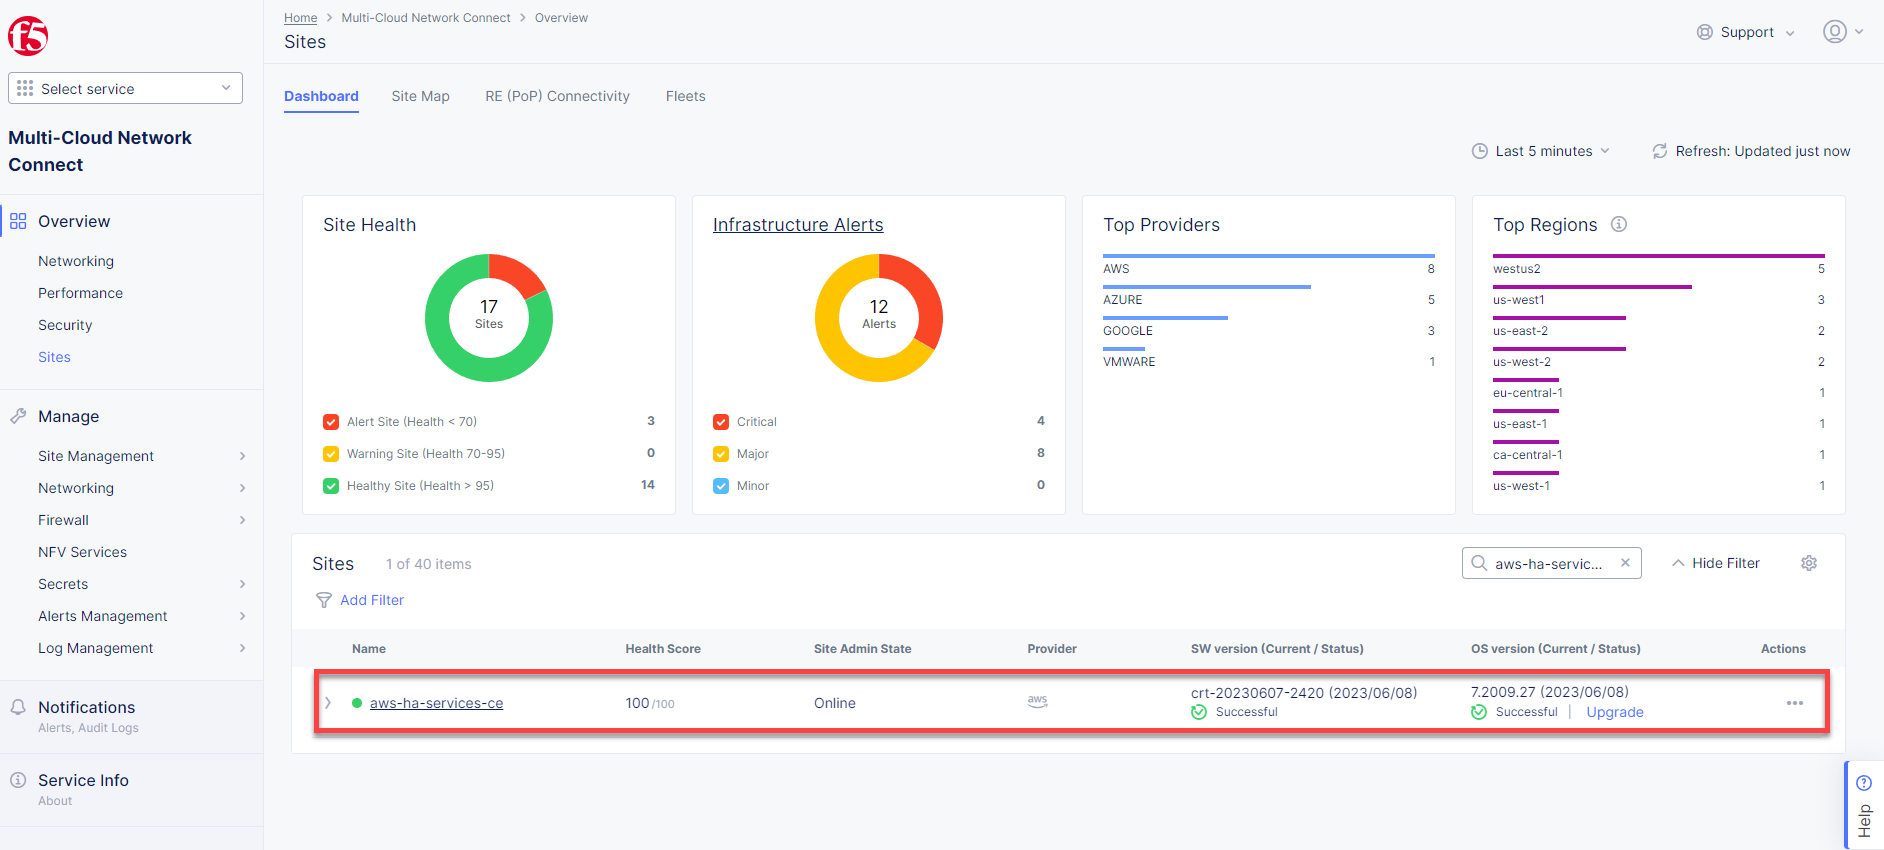
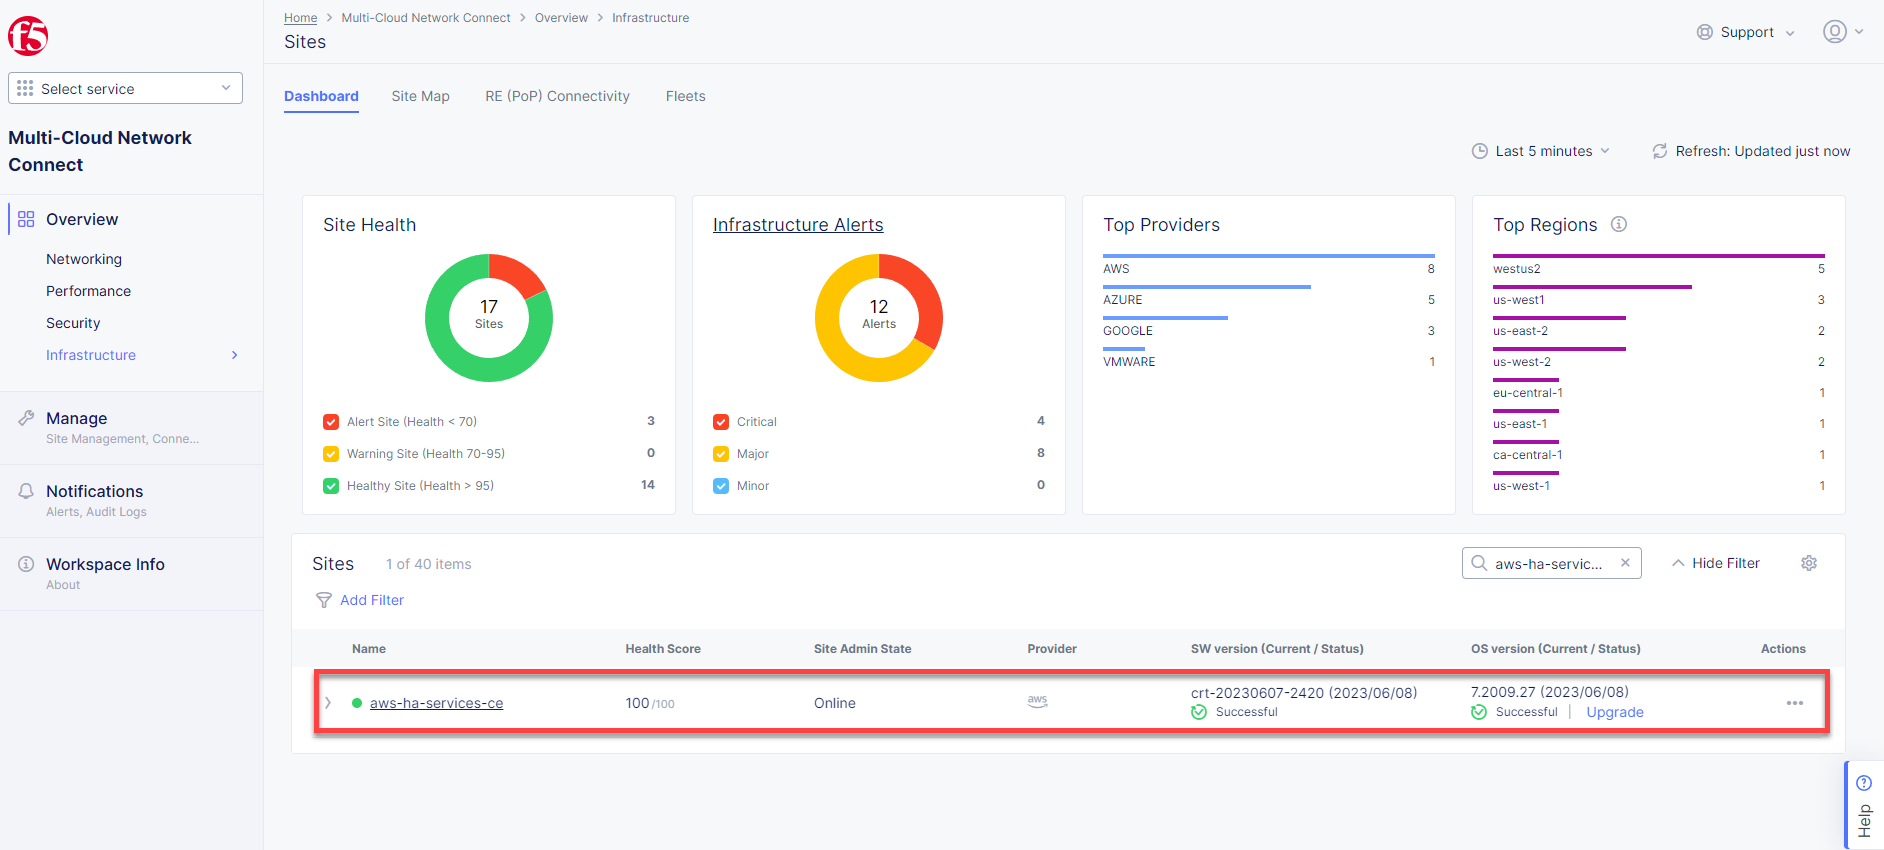
minor text and screen edits

diff --git a/terraform/README.md b/terraform/README.md
@@ -1,4 +1,4 @@
-#   Deployment instructions
+# Deployment instructions
 
 ## Deploy infrastructure
 
@@ -18,8 +18,8 @@ Upload cloudformation template located in the **./cloudformation/aws-service-acc
 
 Fill required parameters and click Next.
 
-* **Stack name** - The name associated with the AWS Cloud Formation stack. For example: xc-cloud-access
-* **Policy Name** - The name of the Service Account Policy. For example: F5XCServiceAccountPolicyForAWSSite
+- **Stack name** - The name associated with the AWS Cloud Formation stack. For example: xc-cloud-access
+- **Policy Name** - The name of the Service Account Policy. For example: F5XCServiceAccountPolicyForAWSSite
 
 ![](../assets/aws/aws_stack_details.png)
 
@@ -49,7 +49,7 @@ Open **./aws-site/var.tf** and fill variables with your Access Key and Access Se
         default = "your_aws_access_secret"
     }
 
-Find **xc_api_url** variable and fill it with your F5 xC tenant name.
+Find **xc_api_url** variable and fill it with your F5 Distributed Cloud tenant name.
 
     variable "xc_api_url" {
         type = string
@@ -109,14 +109,13 @@ Save the terraform output
     kubecofnig_path = "../kubeconfig.conf"
     tenant_name = "your_tenant"
 
-Open F5 Distributed Cloud Console and navigate to the Multi-Cloud Network Connect tab.
+Open Distributed Cloud Console and navigate to the Multi-Cloud Network Connect tab.
 
 ![](../assets/aws/aws_site.png)
 
-Open **Site List** and check the **Health Score**. It may take some time to provision the node.
+Open **Infrastructure** => **Sites** and check the **Health Score**. It may take some time to provision the node.
 
 ![](../assets/aws/aws_site_health.png)
-
 
 ## Deploy application
 
@@ -128,14 +127,14 @@ Update the **xc_api_p12_file** environment variable with the path for the .p12 c
         default = "./path-to-api-cert.p12"
     }
 
-Find the **xc_api_url** variable and fill it with your F5 xC tenant name.
+Find the **xc_api_url** variable and fill it with your Distributed Cloud Services tenant name.
 
     variable "xc_api_url" {
         type = string
         default = "https://your_tenant.console.ves.volterra.io/api"
     }
 
-Find the **cluster_domain** variable in the terraform output from the previous step and update the value in the **var.tf** file. You can also find how to generate it [manually in the guide](https://github.com/f5devcentral/xchacedemoguide#updating-db-deployment-chart-values)
+Find the **cluster_domain** variable in the terraform output from the previous step and update the value in the **var.tf** file. You can also find how to generate it [manually in the guide](https://github.com/f5devcentral/xchaawsdemoguide/tree/main?tab=readme-ov-file#updating-db-deployment-chart-values)
 
     variable "cluster_domain" {
       type    = string
@@ -167,33 +166,32 @@ Run **apply** command to deploy the app
 
     terraform apply
 
-
 ## AWS-Site Variables description
 
-Variable Name       | Description                                                     | Default Value          
---------------------|-----------------------------------------------------------------|------------------------
-environment         | Environment name. Usually match with XC namespace name.         | "ha-services-ce"                   
-xc_api_p12_file     | API credential p12 file path.                                   | "../api-creds.p12"                  
-xc_api_url          | Tenant API url file path.                                       | "https://**your_tenant_name**.console.ves.volterra.io/api"                   
-kubeconfig_path     | Generated vk8s kubeconfig file path.                            | "../kubeconfig.conf"                   
-aws_region          | AWS Region name                                                 | "us-east-2"
-aws_access_key      | AWS Access Key                                                  | ""
-aws_secret_key      | AWS Secret Key                                                  | ""
+| Variable Name   | Description                                             | Default Value                                              |
+| --------------- | ------------------------------------------------------- | ---------------------------------------------------------- |
+| environment     | Environment name. Usually match with XC namespace name. | "ha-services-ce"                                           |
+| xc_api_p12_file | API credential p12 file path.                           | "../api-creds.p12"                                         |
+| xc_api_url      | Tenant API url file path.                               | "https://**your_tenant_name**.console.ves.volterra.io/api" |
+| kubeconfig_path | Generated vk8s kubeconfig file path.                    | "../kubeconfig.conf"                                       |
+| aws_region      | AWS Region name                                         | "us-east-2"                                                |
+| aws_access_key  | AWS Access Key                                          | ""                                                         |
+| aws_secret_key  | AWS Secret Key                                          | ""                                                         |
 
 ## Application Variables description
 
-Variable Name       | Description                                                     | Default Value          
---------------------|-----------------------------------------------------------------|------------------------
-environment         | Environment name. Usually match with XC namespace name.         | "ha-services-ce"                   
-xc_api_p12_file     | API credential p12 file path.                                   | "../api-creds.p12"                  
-xc_api_url          | Tenant API url file path.                                       | "https://**your_tenant_name**.console.ves.volterra.io/api"                   
-kubeconfig_path     | vk8s kubeconfig file path.                                      | "../kubeconfig.conf"                   
-helm_path           | Helm charts path.                                               | "../../helm"
-cluster_domain      | Cluster domain in format **{site_name}.{tenant_id}**.tenant.local. Where **site_name** is the Edge site name. Can be generated from [the guide](https://github.com/f5devcentral/xchacedemoguide#step-2-deploy-ha-postgresql-to-ce) or taken from the terraform's output of the previous step.   |  **your_site_name.your_tenant_full_name**.tenant.local
-registry_username   | Docker Registry Username                                        | ""
-registry_password   | Docker Registry Password                                        | ""
-registry_email      | Docker Registry Email                                           | ""
-virtual_site_name   | Virtual Site Name                                               | "ha-services-ce-vs"
+| Variable Name     | Description                                                                                                                                                                                                                                                                                   | Default Value                                              |
+| ----------------- | --------------------------------------------------------------------------------------------------------------------------------------------------------------------------------------------------------------------------------------------------------------------------------------------- | ---------------------------------------------------------- |
+| environment       | Environment name. Usually match with XC namespace name.                                                                                                                                                                                                                                       | "ha-services-ce"                                           |
+| xc_api_p12_file   | API credential p12 file path.                                                                                                                                                                                                                                                                 | "../api-creds.p12"                                         |
+| xc_api_url        | Tenant API url file path.                                                                                                                                                                                                                                                                     | "https://**your_tenant_name**.console.ves.volterra.io/api" |
+| kubeconfig_path   | vk8s kubeconfig file path.                                                                                                                                                                                                                                                                    | "../kubeconfig.conf"                                       |
+| helm_path         | Helm charts path.                                                                                                                                                                                                                                                                             | "../../helm"                                               |
+| cluster_domain    | Cluster domain in format **{site_name}.{tenant_id}**.tenant.local. Where **site_name** is the Edge site name. Can be generated from [the guide](https://github.com/f5devcentral/xchacedemoguide#step-2-deploy-ha-postgresql-to-ce) or taken from the terraform's output of the previous step. | **your_site_name.your_tenant_full_name**.tenant.local      |
+| registry_username | Docker Registry Username                                                                                                                                                                                                                                                                      | ""                                                         |
+| registry_password | Docker Registry Password                                                                                                                                                                                                                                                                      | ""                                                         |
+| registry_email    | Docker Registry Email                                                                                                                                                                                                                                                                         | ""                                                         |
+| virtual_site_name | Virtual Site Name                                                                                                                                                                                                                                                                             | "ha-services-ce-vs"                                        |
 
 ## Delete environment
 
